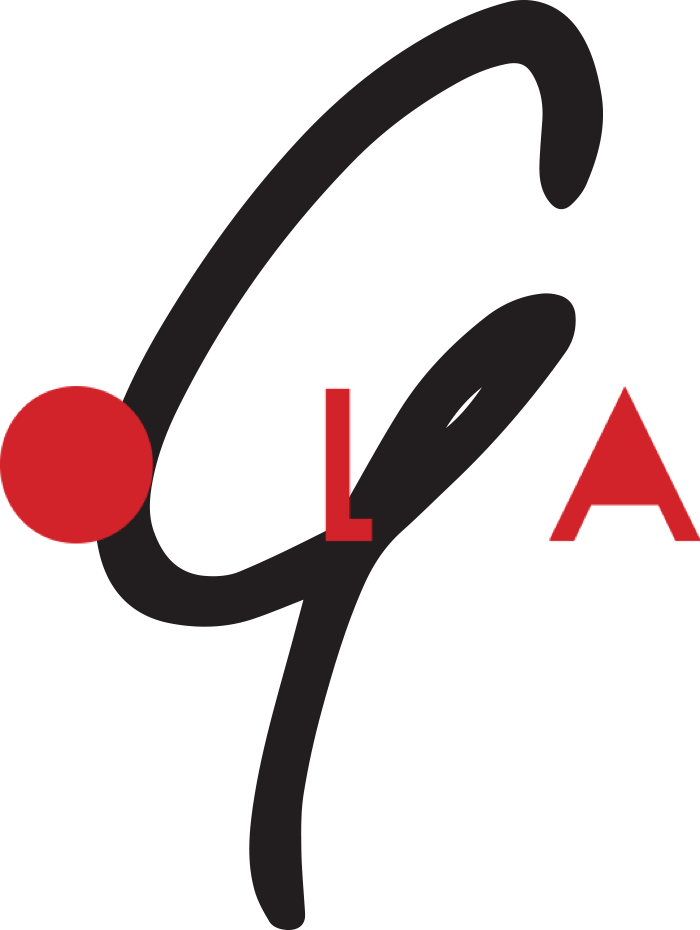
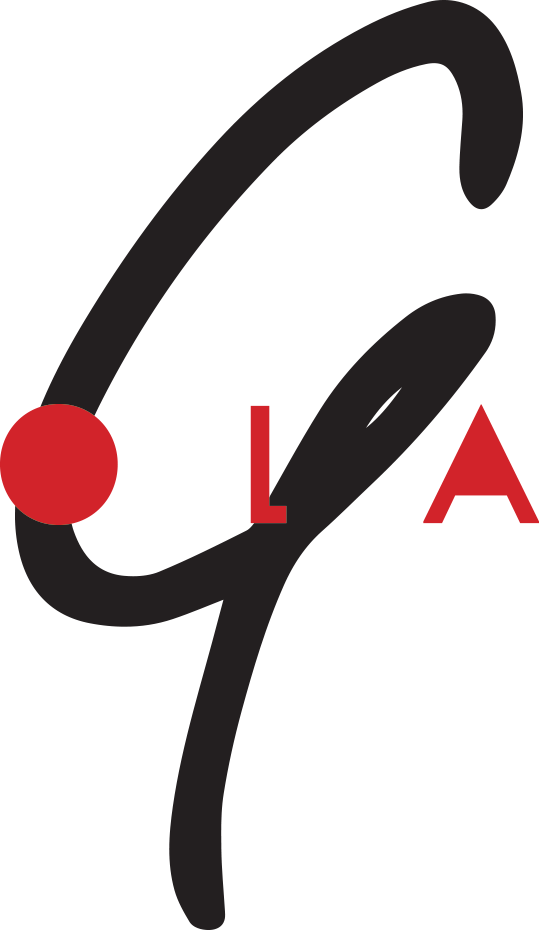
new images

diff --git a/index.html b/index.html
@@ -33,7 +33,7 @@
 </style>
 <body>
 
-	<div id="logo"> <img id="image" src="/assets/G1.png" width="700" height="1209" alt="G-DI-GOLA"> 
+	<div id="logo"> <img id="image" src="/assets/G1.png" width="300" height="518" alt="G-DI-GOLA"> 
 </br>
 </br>
 	<div class="block"><img src="/assets/base.png" width="627" height="168" alt=""/></div></div>
